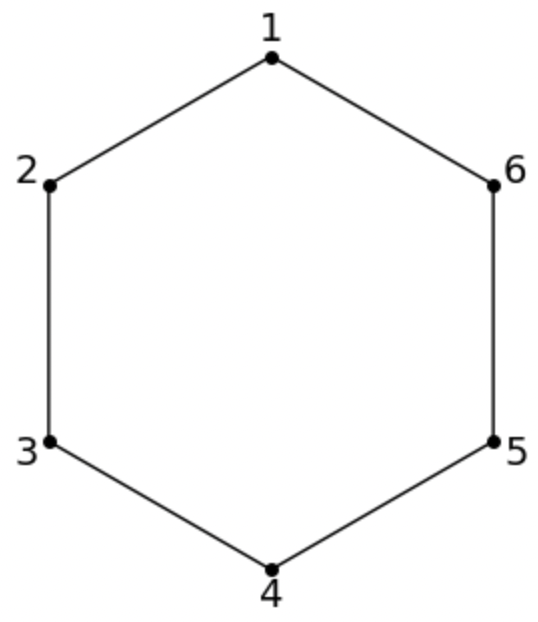
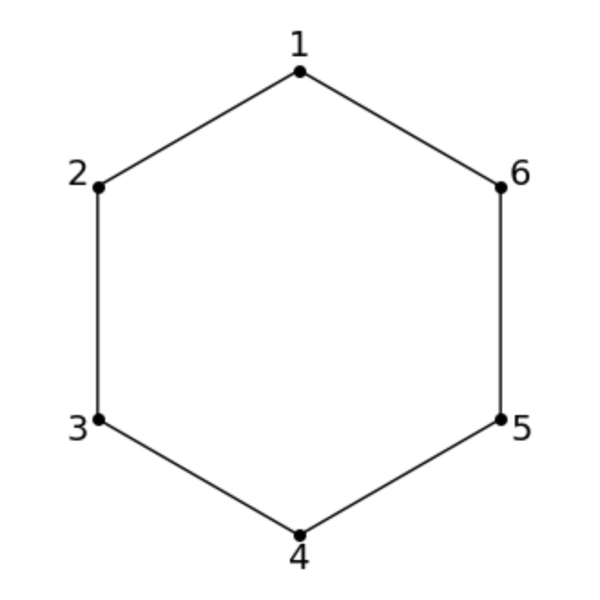
Normalize Ross wheel figure sizes

diff --git a/index.html b/index.html
@@ -388,8 +388,11 @@
                     <img src="assets/figures/ross-wheel-unbalanced-4.png" alt="Unbalanced non-primitive 4-wheel from the attempted generalization." loading="lazy">
                     <figcaption>Paper Figure 3 · The non-primitive 4-wheel construction fails.</figcaption>
                   </figure>
-                  <figure class="problem-figure">
-                    <img src="assets/figures/ross-wheel-nonprimitive-5.png" alt="General and example diagrams of a balanced non-primitive 5-wheel." loading="lazy">
+                  <figure class="problem-figure problem-figure--wide">
+                    <div class="problem-figure-panels">
+                      <img src="assets/figures/ross-wheel-nonprimitive-5a.png" alt="General construction of a balanced non-primitive 5-wheel." loading="lazy">
+                      <img src="assets/figures/ross-wheel-nonprimitive-5b.png" alt="Example of a balanced non-primitive 5-wheel." loading="lazy">
+                    </div>
                     <figcaption>Paper Figure 4 · Balanced non-primitive 5-wheel: general construction and example.</figcaption>
                   </figure>
                   <figure class="problem-figure">

diff --git a/assets/css/styles.css b/assets/css/styles.css
@@ -757,9 +757,13 @@ h4 {
 
 .problem-figure-grid {
   display: grid;
-  grid-template-columns: repeat(2, minmax(0, 1fr));
+  grid-template-columns: repeat(3, minmax(0, 1fr));
   gap: 1rem;
   margin-top: 1rem;
+}
+
+.problem-figure--wide {
+  grid-column: span 2;
 }
 
 .problem-figure {
@@ -775,6 +779,12 @@ h4 {
   height: auto;
   border-radius: 8px;
   background: #ffffff;
+}
+
+.problem-figure-panels {
+  display: grid;
+  grid-template-columns: repeat(2, minmax(0, 1fr));
+  gap: 3rem;
 }
 
 .problem-figure figcaption {
@@ -920,6 +930,10 @@ h4 {
   .figure-empty {
     min-height: 200px;
   }
+
+  .problem-figure-grid {
+    grid-template-columns: repeat(2, minmax(0, 1fr));
+  }
 }
 
 @media (max-width: 760px) {
@@ -1001,6 +1015,14 @@ h4 {
   }
 
   .problem-figure-grid {
+    grid-template-columns: 1fr;
+  }
+
+  .problem-figure--wide {
+    grid-column: auto;
+  }
+
+  .problem-figure-panels {
     grid-template-columns: 1fr;
   }
 
